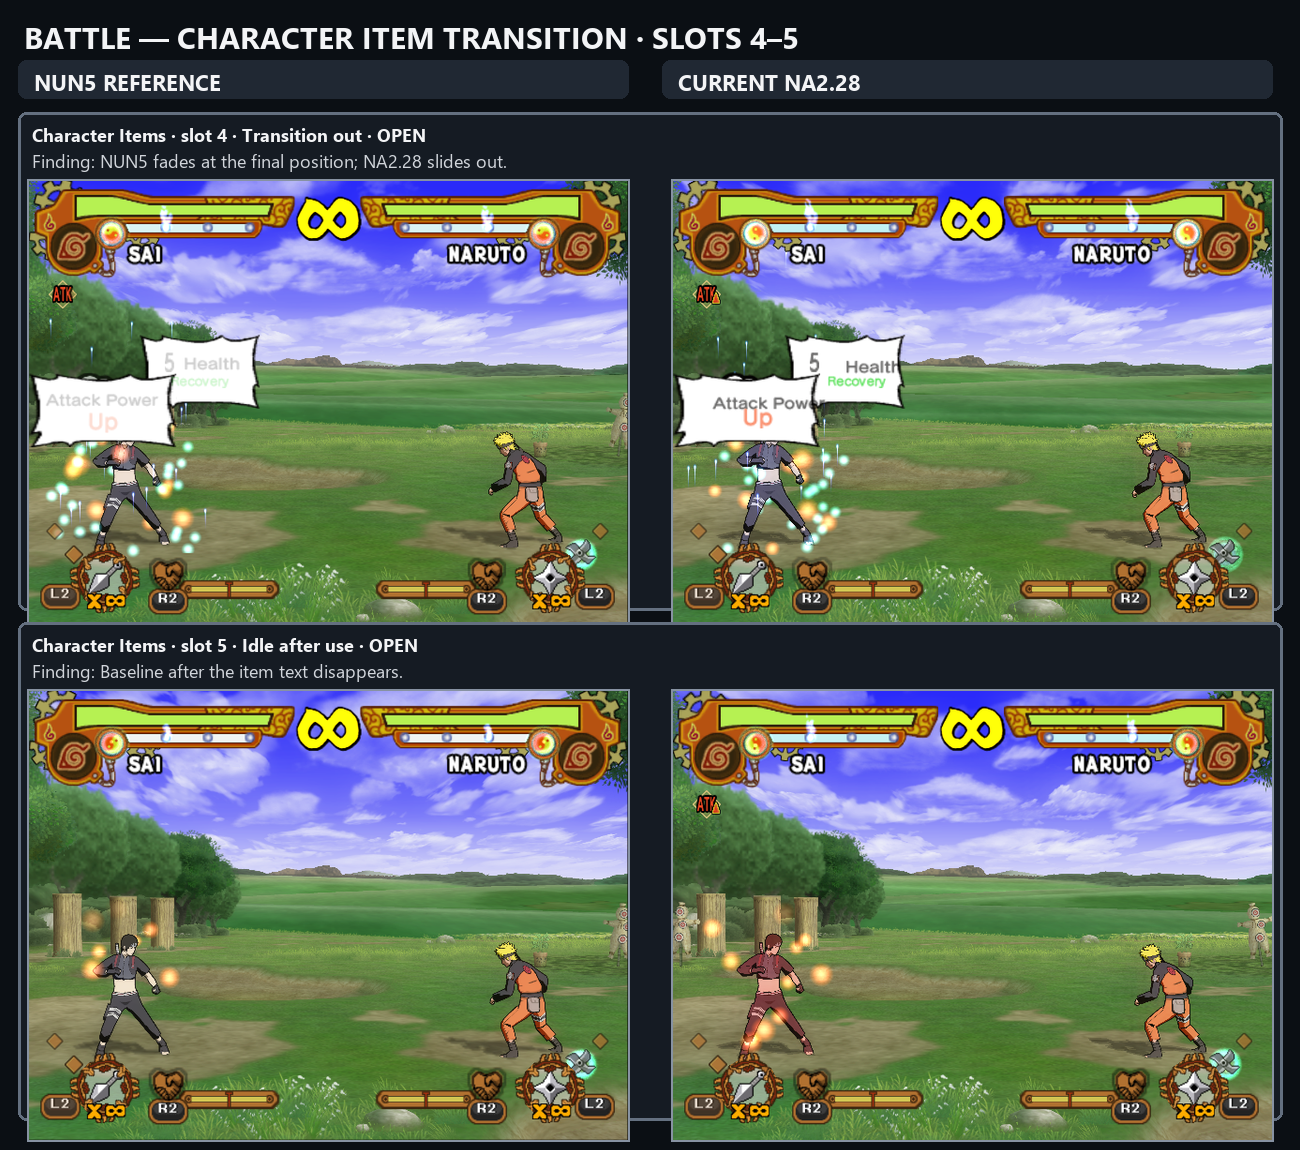
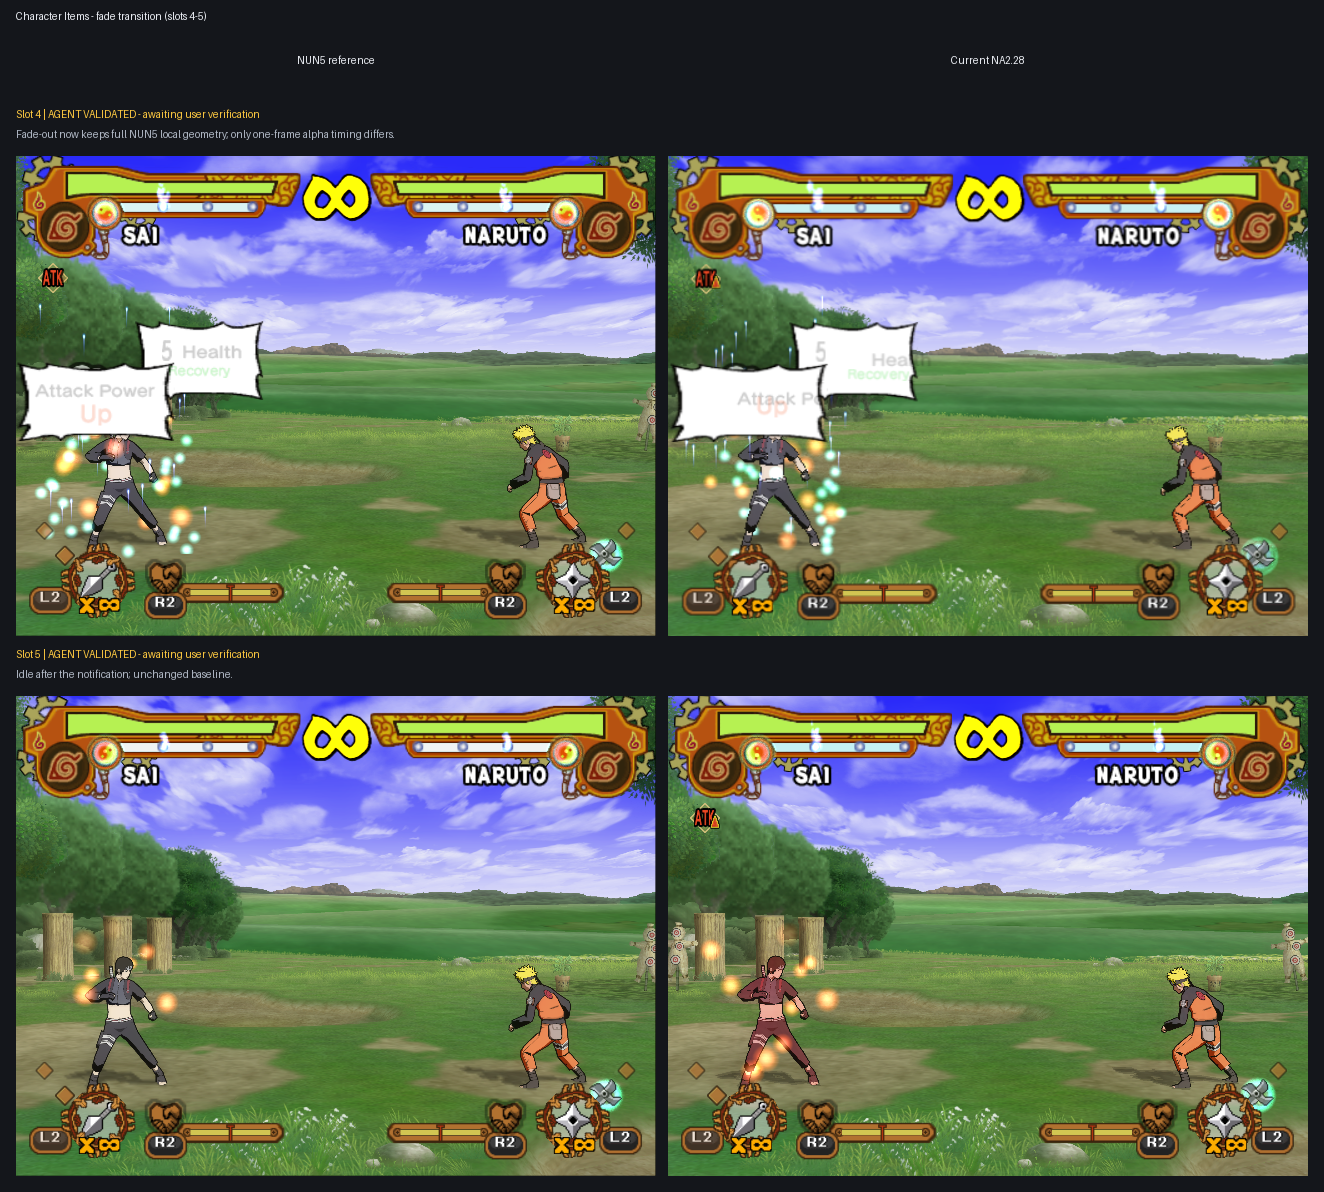
[UI Translation] Fix Character Items fade geometry

diff --git a/na2_patcher/tests/test_texture_patcher.py b/na2_patcher/tests/test_texture_patcher.py
@@ -1134,7 +1134,7 @@ class UiTextureTests(unittest.TestCase):
         patch = package.patches["UI-BTL-009"]
         donors = [item for item in edits if item.operation == "copy"]
 
-        self.assertEqual(len(edits), 26)
+        self.assertEqual(len(edits), 27)
         self.assertEqual(
             [
                 (
@@ -1149,6 +1149,7 @@ class UiTextureTests(unittest.TestCase):
                 (0x4B1208, 84, "nun5_elf", 0x4B86F8),
                 (0x4B12A4, 24, "nun5_elf", 0x4B8794),
                 (0x1E4C90, 24, "nun5_btl", 0x1ED870),
+                (0x2772F4, 4, "nun5_elf", 0x284418),
             ],
         )
         self.assertEqual(patch.status, "runtime_proven")
@@ -1781,14 +1782,14 @@ class UiTextureTests(unittest.TestCase):
             if edit.operation == "replace" and edit not in stage_scales
         ]
 
-        self.assertEqual(len(ui_edits), 292)
-        self.assertEqual(operations, {"copy": 99, "replace": 193})
+        self.assertEqual(len(ui_edits), 295)
+        self.assertEqual(operations, {"copy": 100, "replace": 195})
         self.assertEqual(
             copy_sources,
-            {"nun5_elf": 64, "nun5_btl": 26, "nun5_etc": 9},
+            {"nun5_elf": 65, "nun5_btl": 26, "nun5_etc": 9},
         )
         self.assertEqual(len(stage_scales), 24)
-        self.assertEqual(len(adaptations), 169)
+        self.assertEqual(len(adaptations), 171)
 
     def test_plan_applies_only_inside_the_selected_cvm_member(self) -> None:
         result = self.result("battlegauge")

diff --git a/docs/knowledge/localization/ui/battle.md b/docs/knowledge/localization/ui/battle.md
@@ -354,6 +354,53 @@ The common origin is changed from NA2 `(-33,-42)` to NUN5 `(-33,-33)`.
 The complete NUN5 rank offsets are `(20,-30)`, `(-64,-63)`, and `(0,-96)`;
 NA2 had `(50,-20)`, `(-16,-62)`, and `(30,-104)`.
 
+### Shared foreground fade correction
+
+The Character Items transition uses the same resident anisotropic sprite
+renderer for paired, numeric, single, and fixed foregrounds. The relevant boot
+ELF mappings are:
+
+| Role | NA2 | NUN5 |
+| --- | --- | --- |
+| Resident renderer | `SLPS_258.37` file `0x277160`, runtime `FUN_00377060` | `SLES_556.05` file `0x284280`, runtime `FUN_00384100` |
+| Centered-offset instruction | file `0x2772F4`, runtime `0x003771F4`, `87A80046` / `neg.s f2,f21` | file `0x284418`, runtime `0x00384298`, `87B00046` / `neg.s f2,f22` |
+
+Both homologs receive horizontal scale, alpha, and rotation separately. The
+ported NA2 prologue places scale in `f22`, alpha in `f21`, and rotation in
+`f20`, matching NUN5. The renderer scales the sprite dimensions with `f22` and
+stores `f21` at sprite offset `+0x40` as alpha. Its remaining NA2 instruction
+then incorrectly rebuilt the centered local offsets from `f21`:
+
+```cpp
+sprite->localX = -(alpha * sprite->width) / 2.0f;
+sprite->localY = -(alpha * sprite->height) / 2.0f;
+sprite->alpha = alpha;
+```
+
+NUN5 instead uses `f22`, yielding:
+
+```cpp
+sprite->localX = -(scale * sprite->width) / 2.0f;
+sprite->localY = -(scale * sprite->height) / 2.0f;
+sprite->alpha = alpha;
+```
+
+This explains why Current NA2.28 looked like the foreground slid into and out
+of the bubbles while NUN5 and clean NA2 faded in place. In the paired fade-in
+state, the three representative local offsets were `-4.2`, `-13.8`, and
+`-3.0`: exactly the intended `-7`, `-23`, and `-5` offsets multiplied by
+alpha `0.6`. After copying NUN5's single instruction, a fresh rendered state
+at alpha `0.7` retained the full `-7`, `-23`, and `-5` offsets. A fade-out
+state retained those offsets through alpha `0.0`.
+
+The earlier hypothesis that the BTL wrapper passed its anisotropic arguments
+in the wrong order was disproven: changing that order moved the bubbles and
+did not correct the foreground transition. No wrapper, object field, timing,
+atlas, or item-effect change is needed. `UI-BTL-009-30` therefore copies only
+the exact four-byte NUN5 instruction. Confidence is **verified** from both
+preserved ELF exports, exact clean-file bytes, paired saved-memory fields, and
+fresh isolated runtime captures.
+
 ### Evidence and limits
 
 Evidence consists of paired BTL/ELF disassembly, unique guarded byte ranges in

diff --git a/na2_patcher/features/localization/README.md b/na2_patcher/features/localization/README.md
@@ -1293,6 +1293,15 @@ classes. The pair helper now exposes explicit caller-owned anchor, row, and
 angle-output arguments so the bounded numeric port can reuse it without
 changing the pair result.
 
+The same resident sprite renderer also owns the transition geometry used by
+all four item classes. Its first NA2 port correctly preserved the NUN5 scale in
+`f22` and alpha in `f21`, but the final centered-offset calculation still
+negated `f21`. At partial alpha, that scaled each local half-width/half-height
+offset and made the foreground appear to slide into and out of a stationary
+bubble. `UI-BTL-009-30` copies NUN5's exact `neg.s f2,f22` instruction from
+ELF file `0x284418` to NA2 file `0x2772F4`. Alpha continues to fade normally,
+while local geometry remains constant; fully visible placement is unchanged.
+
 ### UI-BTL-010: localized numeric item-status labels
 
 Numeric item effects share one class for Health, Chakra, Recovery, and their

diff --git a/docs/workstreams/ui_translation/epics/remaining_ui/README.md b/docs/workstreams/ui_translation/epics/remaining_ui/README.md
@@ -11,8 +11,9 @@ the right.
    the red rank text remains vertically misregistered inside the stamp. A
    screen-space Y trial was disproven and reverted; resume at the loaded
    texture/CLUT binding or cached GS packet.
-2. Character Items transition: replace the NA2.28 slide with the NUN5/base-NA2
-   fade behavior.
+2. Character Items transition: the shared resident-renderer correction is
+   implemented and agent-validated across the five paired phases; explicit
+   user verification remains pending.
 
 ## User-accepted completed cases
 
